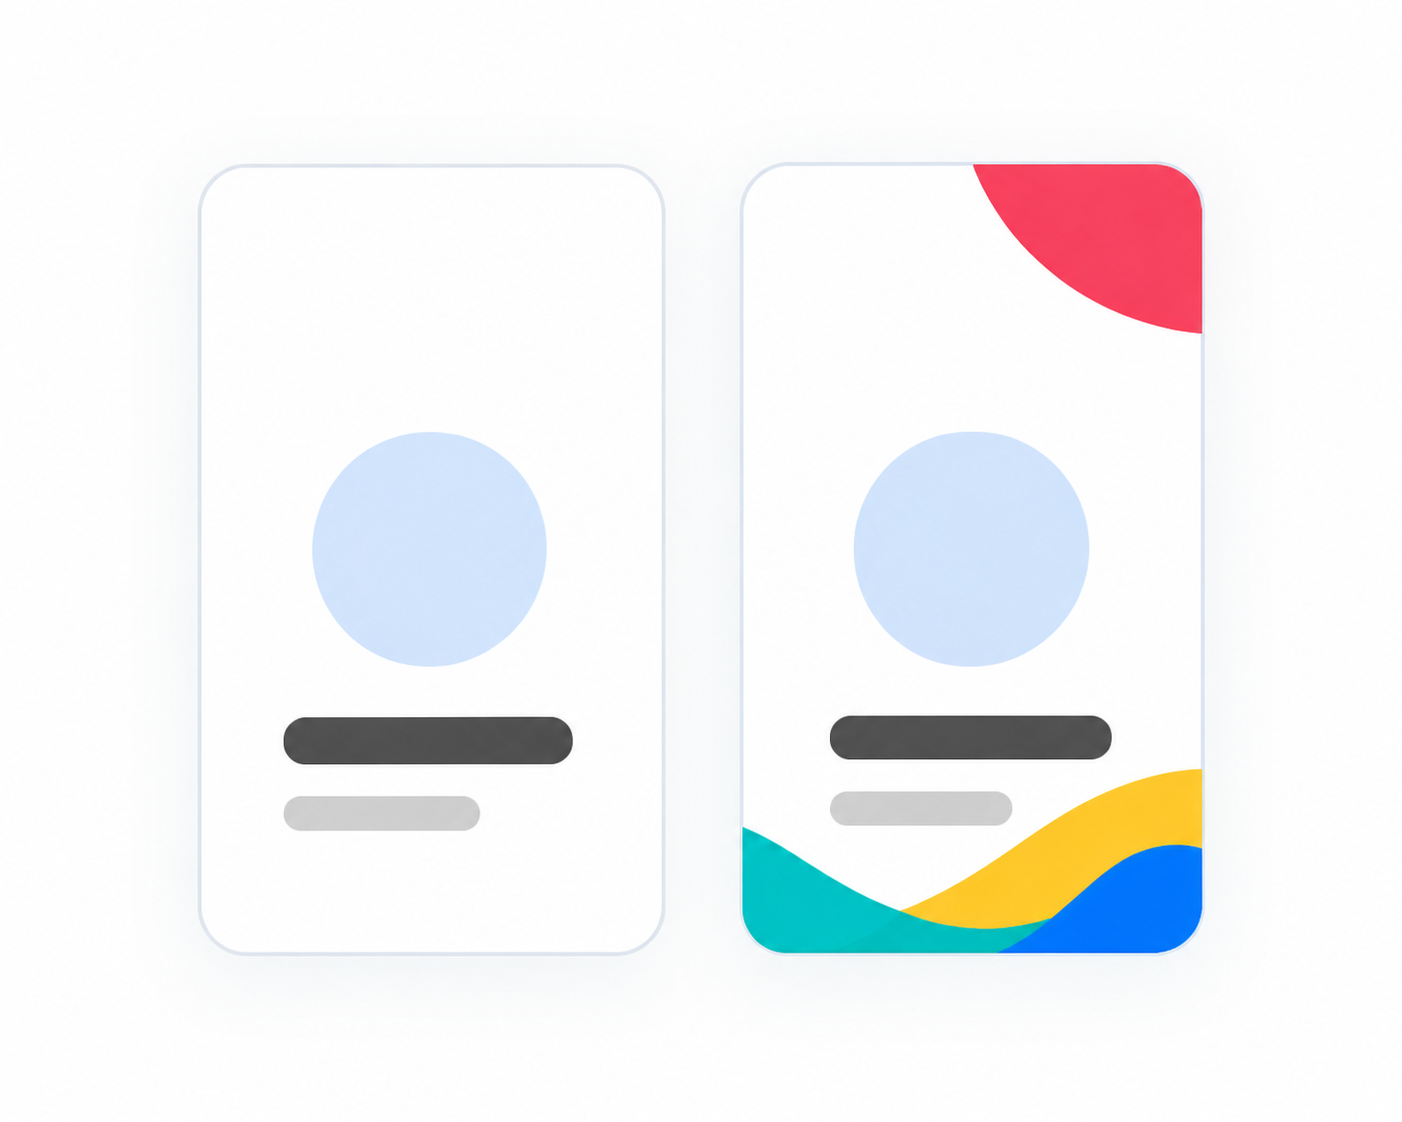
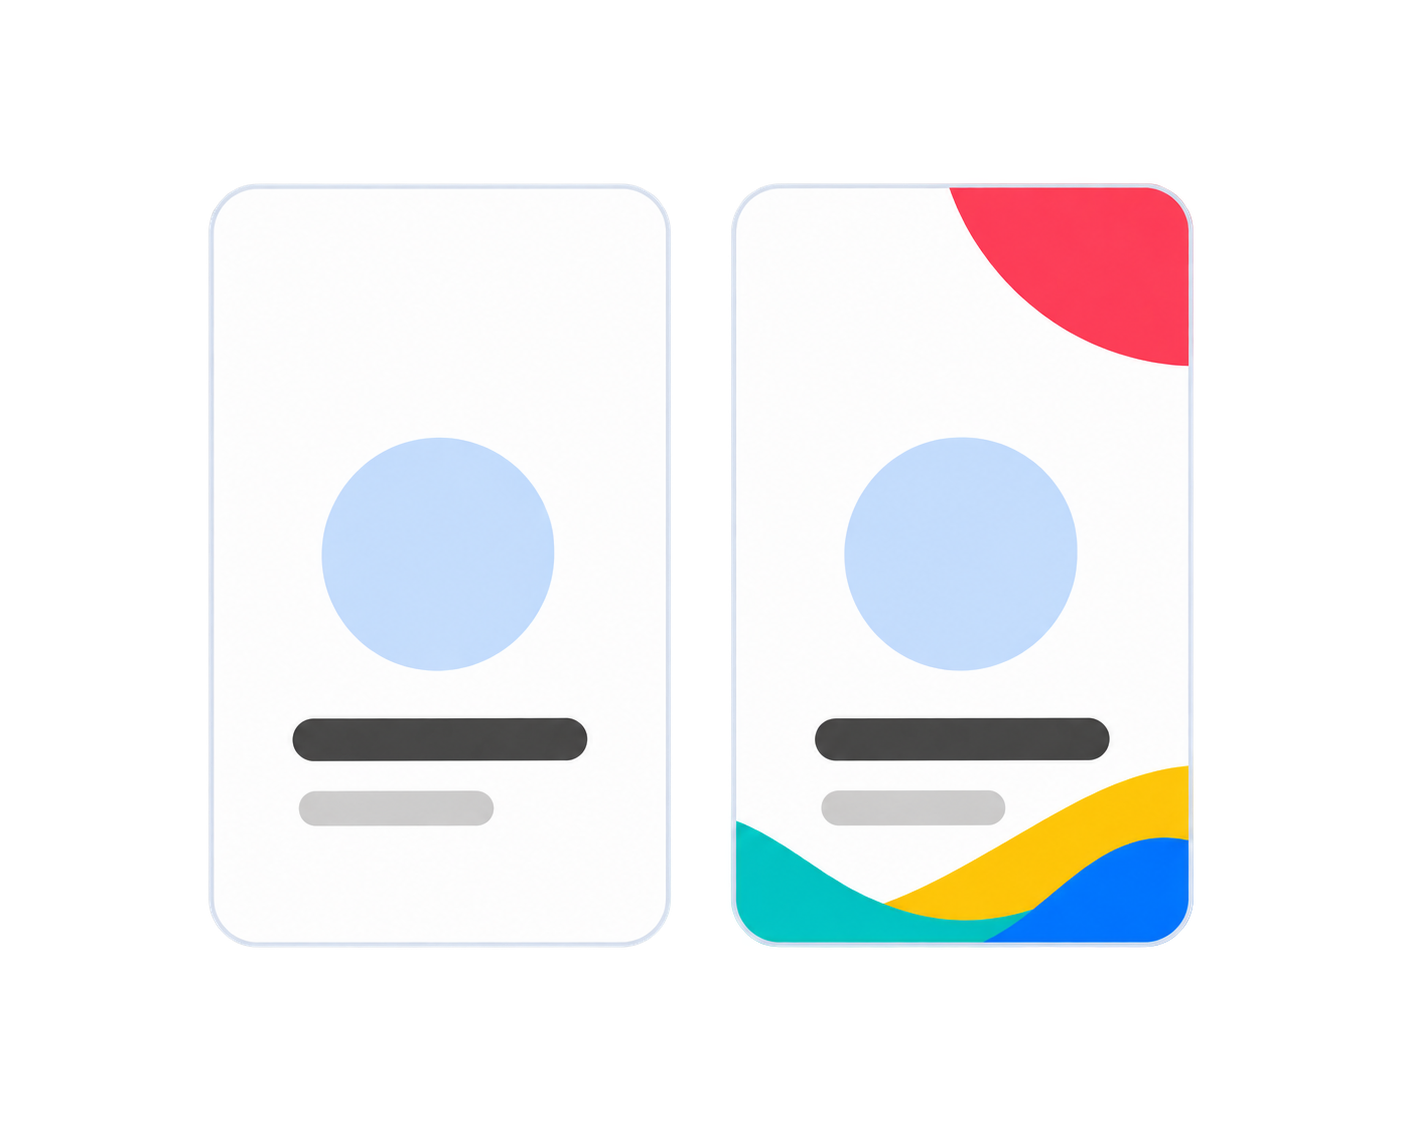
Refine Monthly Share Card Reminder Design

diff --git a/src/components/ShareCardReminder.jsx b/src/components/ShareCardReminder.jsx
@@ -36,11 +36,19 @@ function reminderCandidate(kind, item, userId) {
 
 function ReminderArtwork() {
   return (
-    <img
-      src="/head_modal.png"
-      alt="Dos diseños de tarjeta disponibles: tarjeta simple y estilo Latido"
-      style={{ display:'block', width:'100%', height:'auto' }}
-    />
+    <div style={{ position:'relative', zIndex:4, width:'90%', margin:'0 auto' }}>
+      <div style={{ width:'100%', aspectRatio:'1.636 / 1', overflow:'hidden' }}>
+        <img
+          src="/head_modal.png"
+          alt="Dos diseños de tarjeta disponibles: tarjeta simple y estilo Latido"
+          style={{ display:'block', width:'100%', height:'100%', objectFit:'cover', objectPosition:'center' }}
+        />
+      </div>
+      <div style={{ position:'relative', height:14, marginTop:2 }}>
+        <span style={{ position:'absolute', left:'30.8%', transform:'translateX(-50%)', color:'#64748b', fontSize:9.5, lineHeight:1.2, fontWeight:800, textAlign:'center' }}>Simple</span>
+        <span style={{ position:'absolute', left:'69.4%', transform:'translateX(-50%)', color:'#2563eb', fontSize:9.5, lineHeight:1.2, fontWeight:800, textAlign:'center' }}>Latido</span>
+      </div>
+    </div>
   )
 }
 
@@ -168,45 +176,50 @@ export default function ShareCardReminder() {
           onMouseDown={event => {
             if (event.target === event.currentTarget) closeNotice()
           }}
-          style={{ position:'fixed', inset:0, zIndex:880, padding:'18px', display:'grid', placeItems:'center', background:'rgba(15,23,42,0.42)', backdropFilter:'blur(3px)' }}
+          style={{ position:'fixed', inset:0, zIndex:880, padding:'10px', display:'grid', placeItems:'center', background:'rgba(15,23,42,0.48)', backdropFilter:'blur(4px)' }}
         >
           <section
             role="dialog"
             aria-modal="true"
             aria-labelledby="share-card-reminder-title"
-            style={{ position:'relative', width:'min(412px, 100%)', maxHeight:'calc(100dvh - 36px)', overflowY:'auto', border:`1px solid ${C.border}`, borderRadius:22, background:'#fff', boxShadow:'0 24px 65px rgba(15,23,42,0.2)', fontFamily:PP }}
+            style={{ position:'relative', width:'min(440px, 100%)', maxHeight:'calc(100dvh - 20px)', overflowY:'auto', overflowX:'hidden', border:`1px solid ${C.border}`, borderRadius:30, background:'linear-gradient(145deg, #fff 0%, #fdfefe 68%, #f8fbff 100%)', boxShadow:'0 28px 75px rgba(15,23,42,0.26)', fontFamily:PP }}
           >
             <button
               type="button"
               aria-label="Cerrar"
               onClick={closeNotice}
-              style={{ position:'absolute', zIndex:1, top:13, right:13, width:34, height:34, padding:0, border:`1px solid ${C.border}`, borderRadius:'50%', background:'#fff', color:C.text, display:'grid', placeItems:'center', fontFamily:'Arial, sans-serif', fontSize:25, fontWeight:300, lineHeight:1, cursor:'pointer' }}
+              style={{ position:'absolute', zIndex:5, top:14, right:14, width:34, height:34, padding:0, border:`1px solid ${C.border}`, borderRadius:'50%', background:'rgba(255,255,255,.96)', color:C.text, display:'grid', placeItems:'center', fontFamily:'Arial, sans-serif', fontSize:25, fontWeight:300, lineHeight:1, cursor:'pointer', boxShadow:'0 4px 12px rgba(15,23,42,.04)' }}
             >
               ×
             </button>
 
-            <div style={{ background:'#fff' }}>
+            <div style={{ position:'relative', padding:'42px 0 8px', overflow:'hidden', background:'transparent' }}>
+              <span aria-hidden="true" style={{ position:'absolute', zIndex:1, top:-92, left:-82, width:190, height:190, borderRadius:'50%', background:'linear-gradient(145deg, #ff4d78, #ff365f)' }} />
+              <span aria-hidden="true" style={{ position:'absolute', zIndex:1, top:135, left:34, width:12, height:12, borderRadius:'50%', background:'#fbbf24' }} />
+              <span aria-hidden="true" style={{ position:'absolute', zIndex:1, top:115, right:34, width:10, height:10, borderRadius:'50%', background:'#fb3f65' }} />
+              <span aria-hidden="true" style={{ position:'absolute', zIndex:1, right:-92, bottom:-46, width:170, height:170, borderRadius:'50%', background:'linear-gradient(145deg, #9cf5ef, #36d8cf)' }} />
               <ReminderArtwork />
             </div>
 
-            <div style={{ padding:'22px 25px 25px', borderTop:`1px solid ${C.border}` }}>
-              <h2 id="share-card-reminder-title" style={{ margin:'0 0 8px', color:C.text, fontFamily:PP, fontSize:'clamp(15px, 4.8vw, 20px)', lineHeight:1.2, fontWeight:900, letterSpacing:'-.45px', whiteSpace:'nowrap' }}>
+            <div style={{ position:'relative', zIndex:4, padding:'16px 27px 25px' }}>
+              <h2 id="share-card-reminder-title" style={{ margin:'0 0 12px', color:C.text, fontFamily:PP, fontSize:'clamp(15px, 5.2vw, 22px)', lineHeight:1.2, fontWeight:900, letterSpacing:'-.55px', whiteSpace:'nowrap' }}>
                 {title}
               </h2>
-              <p style={{ margin:'0 0 20px', color:C.text, fontSize:14, lineHeight:1.55 }}>
+              <p style={{ margin:'0 0 24px', color:C.text, fontSize:14, lineHeight:1.65 }}>
                 {description.lead}<strong>{description.emphasis}</strong>
               </p>
               <button
                 type="button"
                 onClick={openShareCard}
-                style={{ width:'100%', minHeight:52, border:0, borderRadius:11, background:C.primary, color:'#fff', fontFamily:PP, fontSize:15, fontWeight:800, cursor:'pointer', boxShadow:'0 10px 22px rgba(37,99,235,0.18)' }}
+                style={{ width:'100%', minHeight:48, border:0, borderRadius:14, background:'linear-gradient(135deg, #2563eb 0%, #1675f8 100%)', color:'#fff', fontFamily:PP, fontSize:13, fontWeight:800, cursor:'pointer', boxShadow:'0 10px 22px rgba(37,99,235,0.2)', display:'flex', alignItems:'center', justifyContent:'center', gap:9 }}
               >
-                Crear mi tarjeta
+                <span>Crear mi tarjeta</span>
+                <span aria-hidden="true" style={{ fontFamily:'Arial, sans-serif', fontSize:21, lineHeight:1, fontWeight:400 }}>→</span>
               </button>
               <button
                 type="button"
                 onClick={closeNotice}
-                style={{ width:'100%', marginTop:12, minHeight:38, padding:0, border:0, background:'transparent', color:C.mid, fontFamily:PP, fontSize:14, fontWeight:500, cursor:'pointer' }}
+                style={{ width:'100%', marginTop:10, minHeight:34, padding:0, border:0, background:'transparent', color:C.mid, fontFamily:PP, fontSize:12, fontWeight:600, cursor:'pointer' }}
               >
                 Ahora no
               </button>
